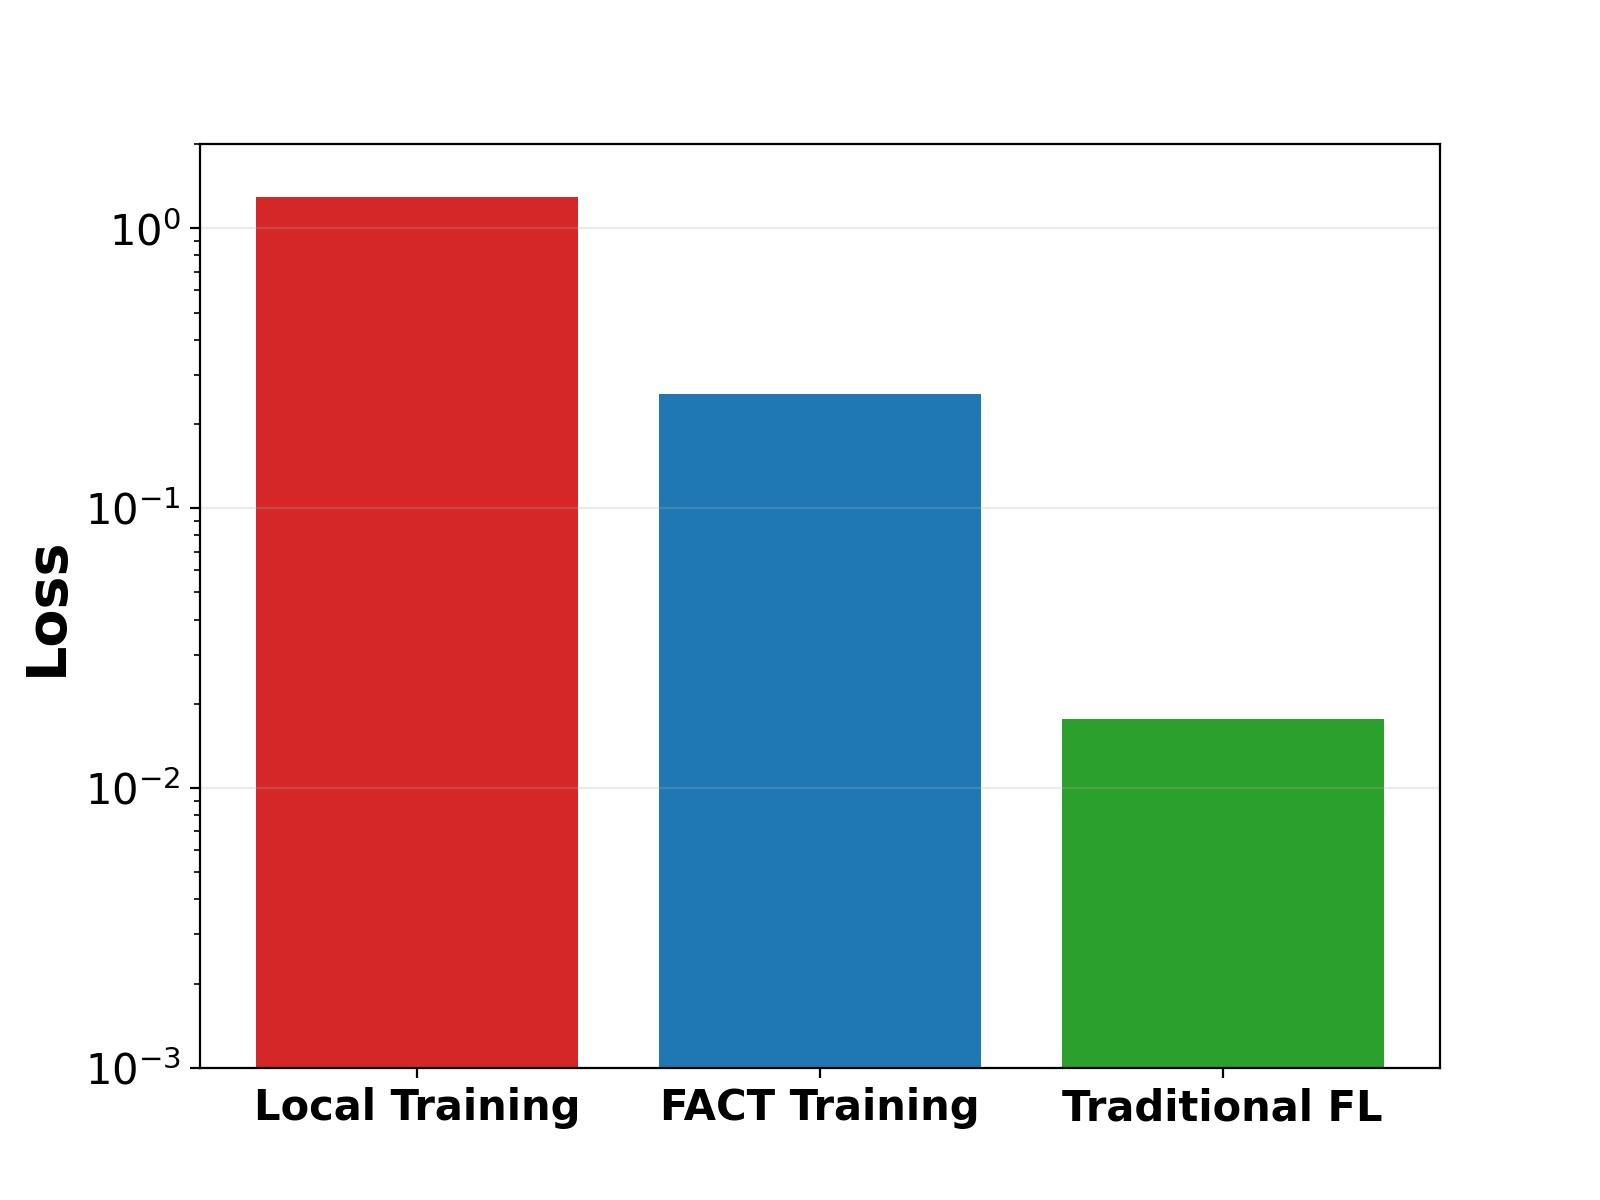
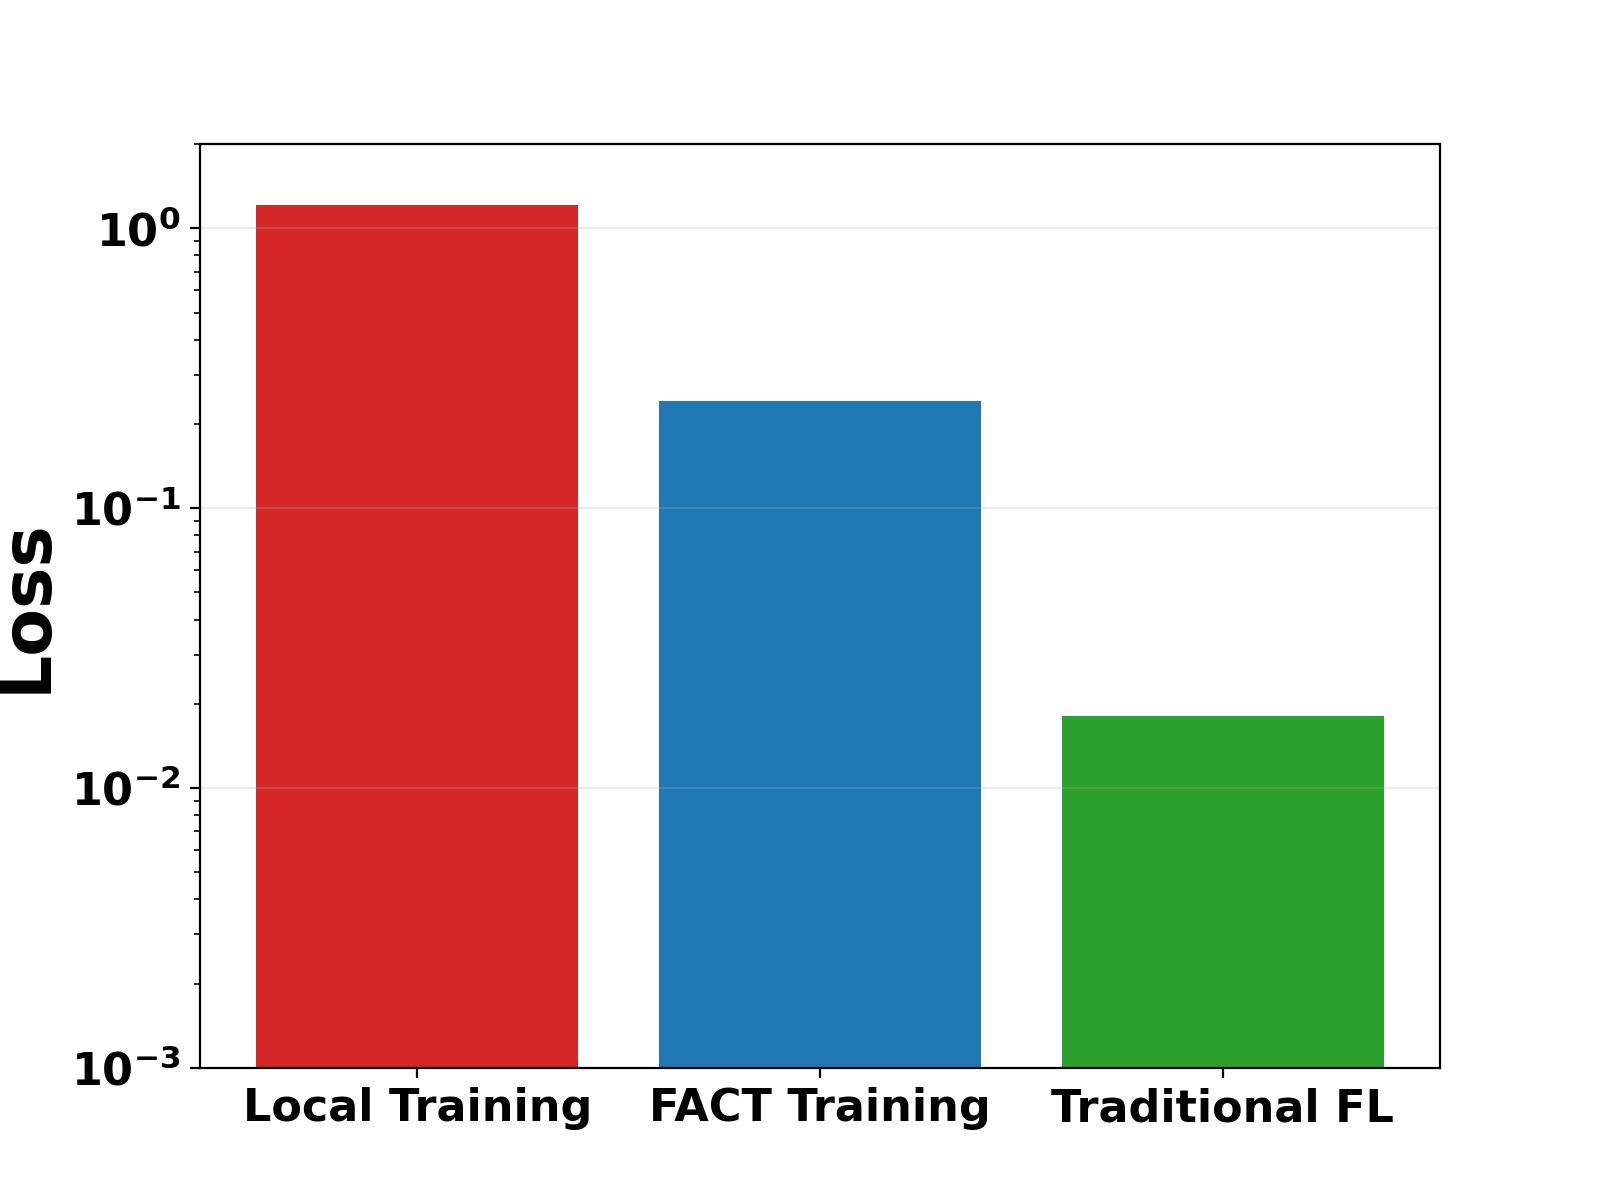
refactor codebase

diff --git a/experiments.py b/experiments.py
@@ -171,15 +171,16 @@ class Postprocessing:
         plt.bar(["Local Training", 'FACT Training', 'Traditional FL'],
                 [avg_local_loss, fact_loss+avg_fed_loss, avg_fed_loss],
                 color=['tab:red', 'tab:blue', 'tab:green'])
-        plt.ylabel('Loss', fontsize=20, weight='bold')
+        plt.ylabel('Loss', fontsize=25, weight='bold')
         plt.xticks(fontsize=17, weight='bold')
+        plt.yticks(fontsize=17, weight='bold')
         if dataset.lower() == 'cifar10':
             plt.ylim([0, 7])
         else:
             plt.ylim([0.001, 2])
             plt.yscale("log")
         plt.grid(alpha=0.25, axis='y')
-        plt.tick_params(axis='both', which='major', labelsize=15)
+        plt.tick_params(axis='both', which='major', labelsize=16)
         # save figure
         if save_file is None:
             plt.show()
@@ -211,6 +212,8 @@ class Postprocessing:
 
         plt.xlabel('Epochs', fontsize=20, weight='bold')
         plt.ylabel('Test Loss', fontsize=20, weight='bold')
+        plt.xticks(fontsize=17, weight='bold')
+        plt.yticks(fontsize=17, weight='bold')
         plt.legend(loc='best', fontsize=15)
         if dataset.lower() == 'mnist':
             plt.ylim([0.01, 2.5])
